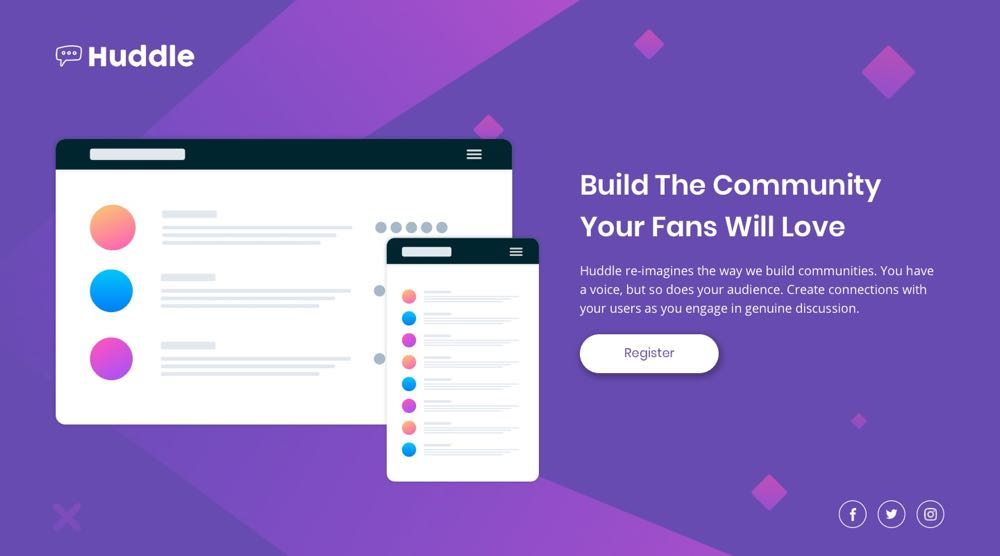
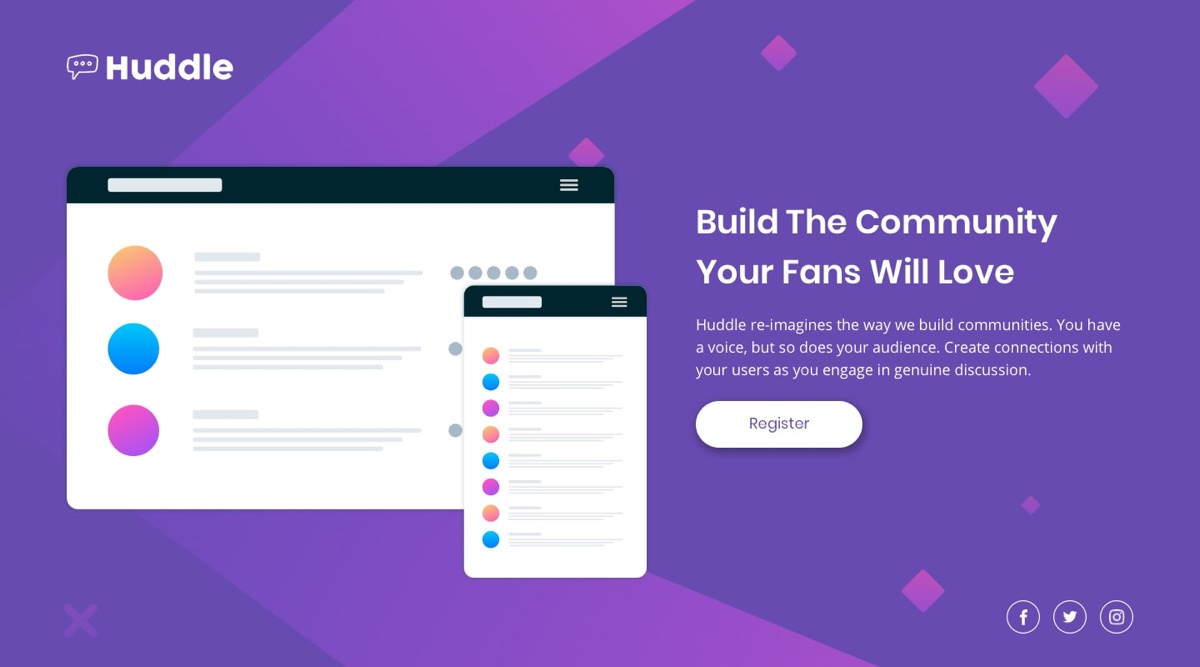
Implémentation design format ordinateur

Changed region(s): [[0.775, 0.5504, 0.837, 0.5809], [0.651, 0.4892, 0.682, 0.5198]]

diff --git a/style.css b/style.css
@@ -1,43 +1,143 @@
 body {
-    display: flex;
-    flex-direction: column;
-    justify-content: space-between;
     background-color: hsl(257, 40%, 49%);
     height: 100vh;
+    font-size: 15px;
+    display: flex;
+    align-items: center;
+    justify-content: center;
+    flex-direction: column;
+    background-repeat: no-repeat;
+}
+
+.card {
+    display: flex;
+    flex-direction: column;
+    border: 0.1em solid white;
+    padding: 2em 4em 2em 4em;
 }
 
 .logo {
     display: flex;
     align-items: center;
     justify-content: flex-start;
+    width: 11em;
+}
+
+.logo>img {
+    width: 100%;
+    height: auto;
+}
+
+.container {
+    margin-top: 5em;
+}
+
+.site_preview>img {
+    width: 100%;
+    height: auto;
 }
 
 .titre {
     font-family: 'Poppins', sans-serif;
     color: white;
+    font-size: 2em;
+    font-weight: 500;
+    line-height: 1.7em;
 }
 
 .content {
     font-family: 'Open Sans', sans-serif;
+    color: hsl(257, 40%, 80%);
+    font-size: 1em;
+    line-height: 1.5em;
+    margin-top: 1em;
+    margin-bottom: 1.4em;
+}
+
+.button_register {
+    font-family: 'Poppins', sans-serif;
+    background-color: white;
+    border-radius: 2em;
+    padding: 0.8em 0;
+    font-size: 1em;
+    text-align: center;
+    font-weight: 400;
+    color: hsl(257, 40%, 65%);
+    box-shadow: 0.3em 0.3em 0.8em 0 hsl(257, 40%, 30%);
+}
+
+.button_register:hover {
+    background-color: hsl(300, 69%, 71%);
     color: white;
 }
 
+.network_container {
+    display: flex;
+    flex-direction: row;
+    justify-content: flex-end;
+    align-items: center;
+}
+
+.circle_icon {
+    border: 0.1em solid white;
+    border-radius: 100%;
+    padding: 0.5em;
+    width: 1em;
+    height: 1em;
+    margin: 0.4em;
+}
+
+.circle_icon>img {
+    filter: invert(100%);
+    width: 100%;
+    height: auto;
+}
+
 /*Ordinateur*/
-@media only screen and (min-width: 901px){
+@media only screen and (min-width: 1041px){
     body {
         background-image: url("images/bg-desktop.svg");
+        background-position: center;
     }
 
     .container {
         display: flex;
         flex-direction: row;
+        /*width: 100%;*/
     }
+
+    .site_preview {
+        width: 39.3em;
+        height: auto;
+    }
+
+    .content_container {
+        display: flex;
+        flex-direction: column;
+        border: 0.1em solid white;
+        margin-left: 3em;
+        width: 29em;
+    }
+
+    .titre {
+        margin-top: 1em;
+    }
+
+    .button_register {
+        width: 11em;
+    }
+
+    .network_container {
+        margin-top: 10em;
+    }
+
 }
 
 /*mobile*/
-@media only screen and (max-width: 900px){
+@media only screen and (max-width: 1040px){
     body {
         background-image: url("images/bg-mobile.svg");
+        background-position: top;
     }
 
     .container {

diff --git a/index.html b/index.html
@@ -1,7 +1,7 @@
 <!DOCTYPE html>
 <html lang="en">
 <link rel="preconnect" href="https://fonts.gstatic.com">
-<link href="https://fonts.googleapis.com/css2?family=Poppins:ital,wght@0,400;0,700;1,400;1,700&display=swap" rel="stylesheet">
+<link href="https://fonts.googleapis.com/css2?family=Poppins:ital,wght@0,400;0,500;0,700;1,400;1,500;1,700&display=swap" rel="stylesheet">
 <link rel="preconnect" href="https://fonts.gstatic.com">
 <link href="https://fonts.googleapis.com/css2?family=Open+Sans:ital@0;1&display=swap" rel="stylesheet">
 <link rel="stylesheet" href="style.css">
@@ -21,6 +21,7 @@
 </head>
 <body>
 
+<div class="card">
   <section class="logo">
     <img src="./images/logo.svg"/>
   </section>
@@ -31,7 +32,8 @@
     </div>
     <div class="content_container">
       <div class="titre">
-        Build The Community Your Fans Will Love
+        Build The Community <br />
+        Your Fans Will Love
       </div>
       <div class="content">
         Huddle re-imagines the way we build communities. You have a voice, but so does your audience.
@@ -40,20 +42,22 @@
       <div class="button_register">
         Register
       </div>
+      <section class="network_container">
+        <div class="circle_icon">
+          <img src="images/facebook.svg"/>
+        </div>
+        <div class="circle_icon">
+          <img src="images/twitter.svg"/>
+        </div>
+        <div class="circle_icon">
+          <img src="images/instagram.svg"/>
+        </div>
+      </section>
     </div>
   </section>
 
-  <section class="network_container">
-    <div class="circle_icon">
-      <img src="images/facebook.svg"/>
-    </div>
-    <div class="circle_icon">
-      <img src="images/twitter.svg"/>
-    </div>
-    <div class="circle_icon">
-      <img src="images/instagram.svg"/>
-    </div>
-  </section>
+
+</div>
 
   <footer>
     <p class="attribution">
